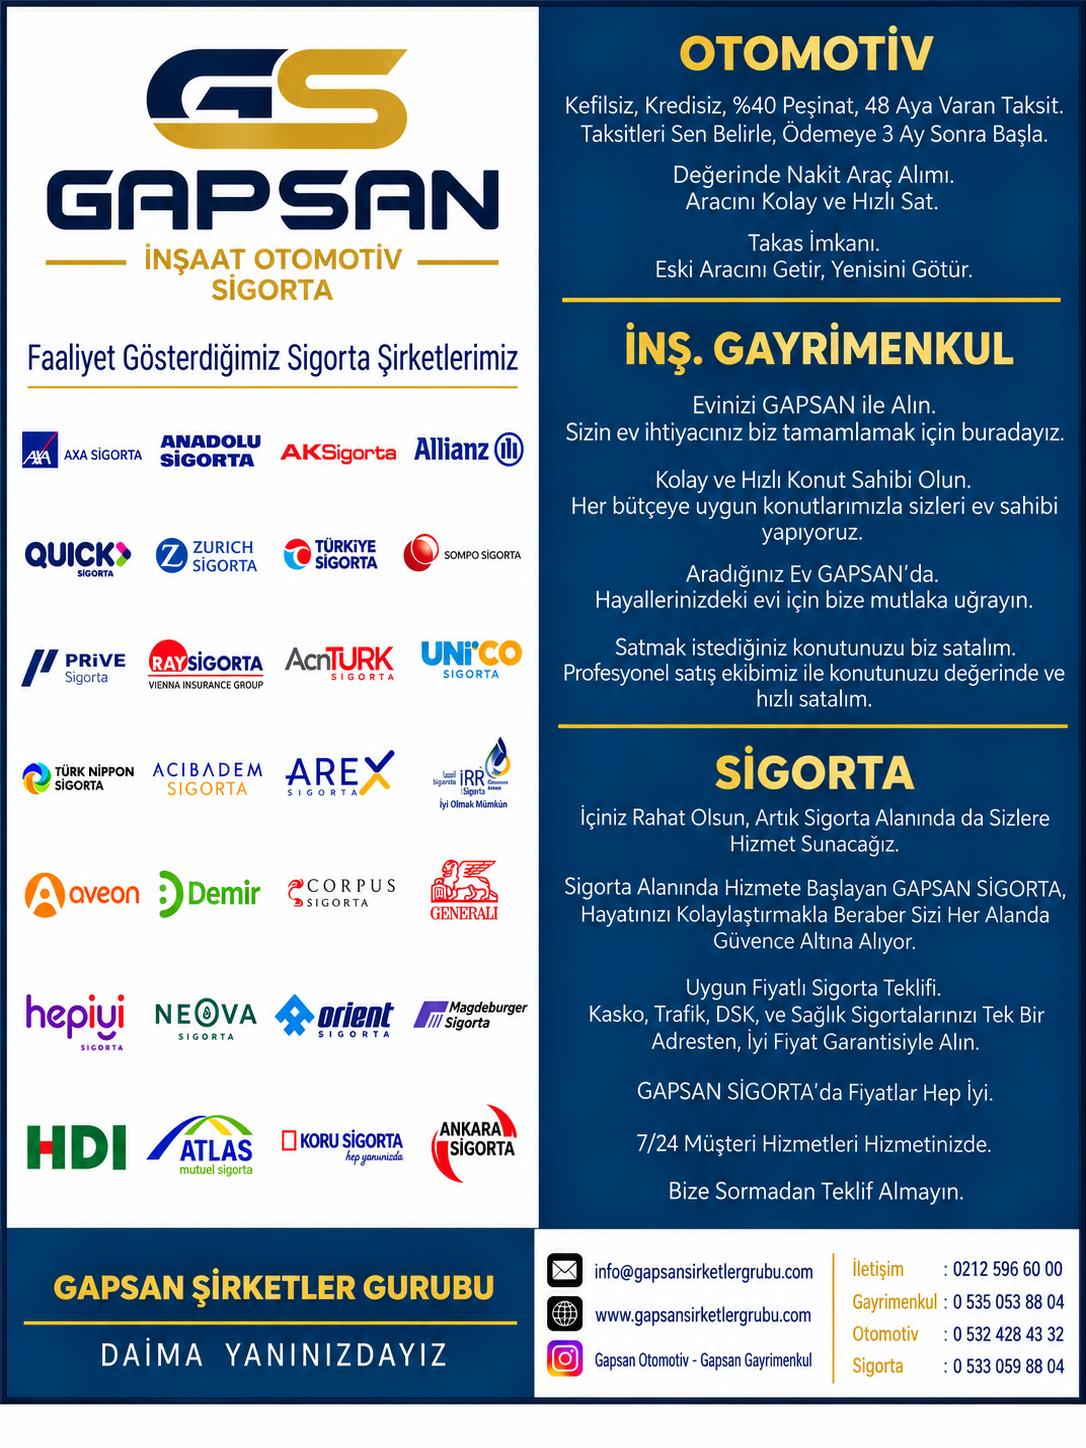
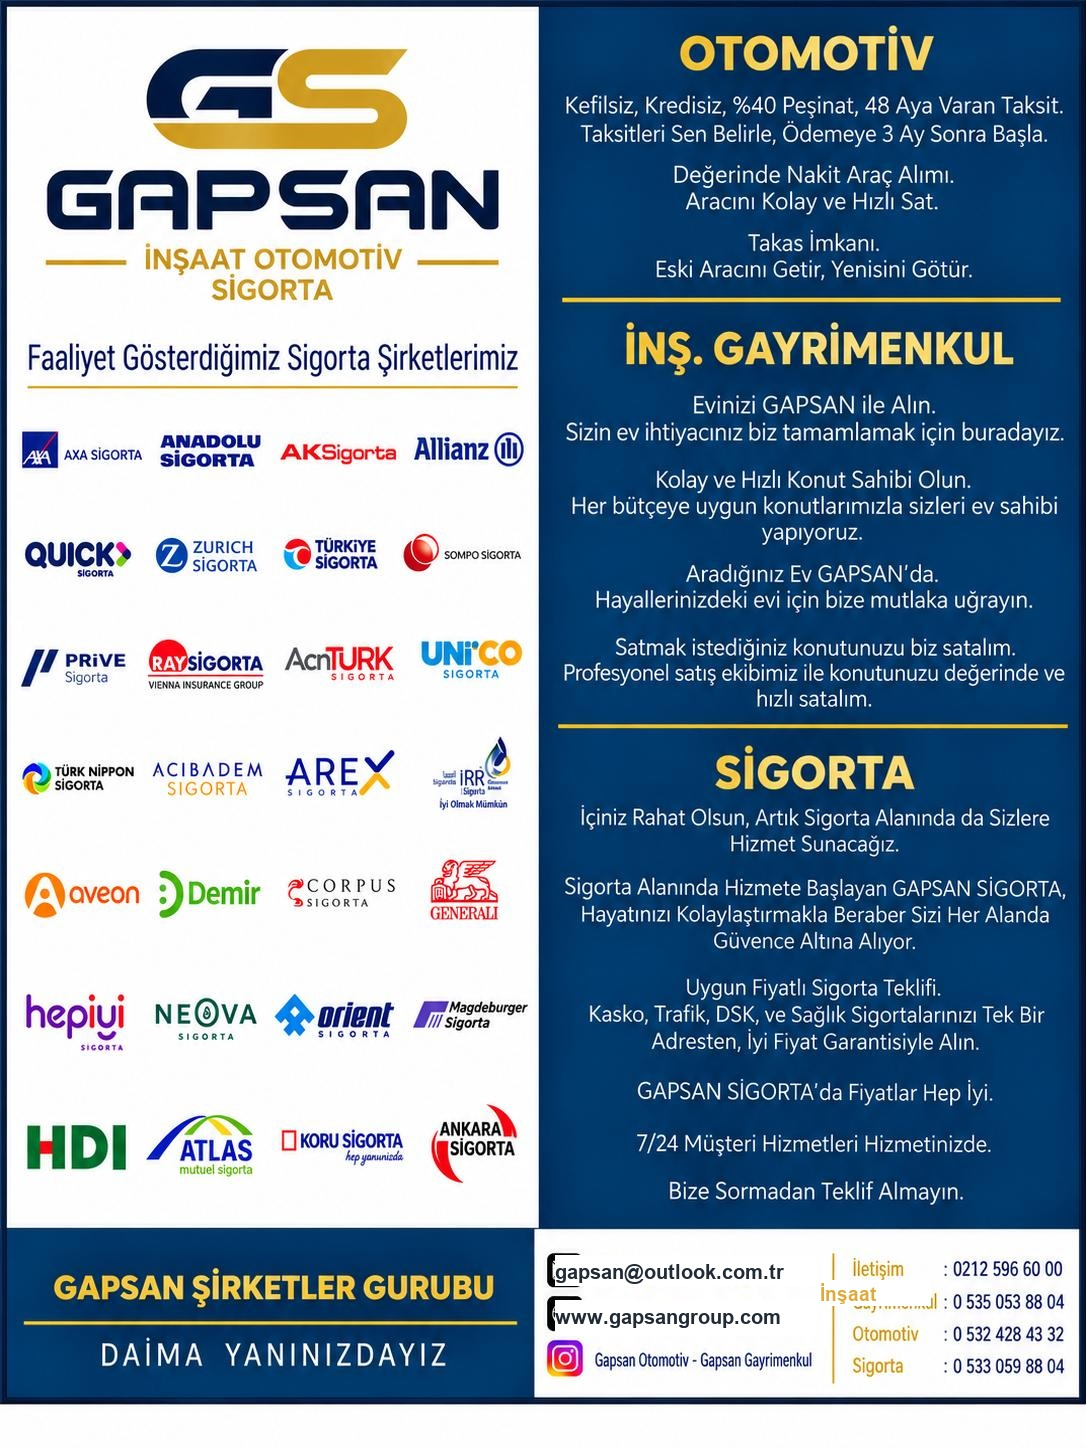
Update navigation to İnşaat, update afiş image, add /insaat route, and sync contact details

Changed region(s): [[0.4862, 0.8702, 0.8508, 0.9323]]

diff --git a/src/app/layout.tsx b/src/app/layout.tsx
@@ -24,11 +24,11 @@ const inter = Inter({
 export const metadata: Metadata = {
   metadataBase: new URL(SITE_URL),
   title: {
-    default: "GAPSAN Şirketler Grubu | Otomotiv, Gayrimenkul ve Sigorta",
+    default: "GAPSAN Şirketler Grubu | Otomotiv, İnşaat ve Sigorta",
     template: "%s | GAPSAN Şirketler Grubu",
   },
   description:
-    "Esenyurt, İstanbul merkezli GAPSAN Şirketler Grubu; otomotiv alım-satım ve takas, satılık-kiralık gayrimenkul ve sigorta taleplerinizde yanınızda.",
+    "Esenyurt, İstanbul merkezli GAPSAN Şirketler Grubu; otomotiv alım-satım ve takas, inşaat & gayrimenkul ve sigorta taleplerinizde yanınızda.",
   icons: {
     icon: "/assets/gapsan/gapsan-favicon.png",
     apple: "/assets/gapsan/gapsan-favicon.png",
@@ -40,9 +40,9 @@ export const metadata: Metadata = {
     type: "website",
     locale: "tr_TR",
     siteName: "GAPSAN Şirketler Grubu",
-    title: "GAPSAN Şirketler Grubu | Otomotiv, Gayrimenkul ve Sigorta",
+    title: "GAPSAN Şirketler Grubu | Otomotiv, İnşaat ve Sigorta",
     description:
-      "Otomotiv, gayrimenkul ve sigorta alanlarında Esenyurt, İstanbul merkezli kurumsal hizmet.",
+      "Otomotiv, inşaat ve sigorta alanlarında Esenyurt, İstanbul merkezli kurumsal hizmet.",
     images: [
       {
         url: "/assets/gapsan/gapsan-og-genel.webp",

diff --git a/src/components/Header.tsx b/src/components/Header.tsx
@@ -8,7 +8,7 @@ import { useGapsanStore } from "@/lib/gapsan-store";
 
 const NAV_LINKS = [
   { href: "/otomotiv", label: "Otomotiv" },
-  { href: "/gayrimenkul", label: "Gayrimenkul" },
+  { href: "/insaat", label: "İnşaat" },
   { href: "/sigorta", label: "Sigorta" },
   { href: "/kurumsal", label: "Kurumsal" },
   { href: "/iletisim", label: "İletişim" },
@@ -56,6 +56,7 @@ export default function Header() {
           {NAV_LINKS.map((item) => {
             const active =
               pathname === item.href ||
+              (item.href === "/insaat" && (pathname === "/gayrimenkul" || pathname.startsWith("/gayrimenkul/"))) ||
               (item.href !== "/" && pathname.startsWith(item.href + "/"));
             return (
               <Link
@@ -132,7 +133,9 @@ export default function Header() {
 
               <nav className="mt-4 flex flex-col gap-1" aria-label="Mobil menü">
                 {NAV_LINKS.map((item) => {
-                  const active = pathname === item.href;
+                  const active =
+                    pathname === item.href ||
+                    (item.href === "/insaat" && (pathname === "/gayrimenkul" || pathname.startsWith("/gayrimenkul/")));
                   return (
                     <Link
                       key={item.href}

diff --git a/src/app/iletisim/page.tsx b/src/app/iletisim/page.tsx
@@ -95,7 +95,7 @@ export default function IletisimPage() {
                     </a>
                   </p>
                   <p className="text-[#536174]">
-                    <span className="font-semibold text-[#111F35] block text-[12px] uppercase">Gayrimenkul Birimi:</span>
+                    <span className="font-semibold text-[#111F35] block text-[12px] uppercase">İnşaat Birimi:</span>
                     <a
                       href={`mailto:${CONTACT_CONFIG.gayrimenkulEmail}`}
                       className="font-bold text-[#111F35] hover:underline"
@@ -302,7 +302,7 @@ export default function IletisimPage() {
               <div className="p-4 rounded-[10px] bg-[#F7F5EF] border border-[#E0E4EA] hover:border-[#D6A948] transition-colors flex flex-col justify-between">
                 <div>
                   <p className="text-[12px] font-semibold text-[#536174]">
-                    Gayrimenkul Birimi
+                    İnşaat &amp; Gayrimenkul
                   </p>
                   <a
                     href={CONTACT_CONFIG.units.gayrimenkul.phoneTel}

diff --git a/src/lib/gapsan-data.ts b/src/lib/gapsan-data.ts
@@ -333,7 +333,7 @@ export const INITIAL_HERO_SLIDES: HeroSlideConfig[] = [
     id: "slide-1",
     image: "/assets/gapsan/gapsan-otomotiv-konsept.webp",
     alt: "Gapşan Otomotiv galeri konsept görseli",
-    heading: "Otomotiv, gayrimenkul ve sigorta",
+    heading: "Otomotiv, inşaat ve sigorta",
     location: "Esenyurt, İstanbul • 2010'dan Bu Yana Güvenle",
     ctaLabel: "Talep Oluştur",
     ctaHref: "/#talep",
@@ -344,10 +344,10 @@ export const INITIAL_HERO_SLIDES: HeroSlideConfig[] = [
   {
     id: "slide-2",
     image: "/assets/gapsan/gapsan-gayrimenkul-konsept.webp",
-    alt: "Gapşan Gayrimenkul apartman cephesi konsept görseli",
-    heading: "Satılık ve kiralık gayrimenkul",
-    ctaLabel: "Gayrimenkulü İncele",
-    ctaHref: "/gayrimenkul",
+    alt: "Gapşan İnşaat konsept görseli",
+    heading: "İnşaat ve satılık-kiralık gayrimenkul",
+    ctaLabel: "İnşaatı İncele",
+    ctaHref: "/insaat",
     desktopFocus: "65% 50%",
     mobileFocus: "68% 62%",
     conceptLabel: "Konsept görsel",

diff --git a/src/components/HomeSections.tsx b/src/components/HomeSections.tsx
@@ -29,10 +29,10 @@ export function ActivityAreasSection() {
       mobileFocus: "50% 56%",
     },
     {
-      title: "Gayrimenkul",
-      href: "/gayrimenkul",
+      title: "İnşaat",
+      href: "/insaat",
       image: "/assets/gapsan/gapsan-gayrimenkul-konsept.webp",
-      alt: "Gapşan Gayrimenkul apartman cephesi konsept görseli",
+      alt: "Gapşan İnşaat & Gayrimenkul konsept görseli",
       mobileFocus: "68% 62%",
     },
     {
@@ -600,7 +600,7 @@ export function ReachGapsanSection() {
                 href={contact.units.gayrimenkul.phoneTel}
                 className="inline-flex items-center gap-1.5 hover:text-[#D6A948]"
               >
-                Gayrimenkul: {contact.units.gayrimenkul.phoneDisplay}
+                İnşaat: {contact.units.gayrimenkul.phoneDisplay}
               </a>
               <a
                 href={contact.units.sigorta.phoneTel}

diff --git a/src/components/Footer.tsx b/src/components/Footer.tsx
@@ -45,8 +45,8 @@ export default function Footer() {
             <span className="text-[#E0E4EA] hidden sm:inline" aria-hidden="true">
               |
             </span>
-            <Link href="/gayrimenkul" className="hover:text-[#111F35] py-1">
-              Gayrimenkul
+            <Link href="/insaat" className="hover:text-[#111F35] py-1">
+              İnşaat
             </Link>
             <span className="text-[#E0E4EA] hidden sm:inline" aria-hidden="true">
               |
@@ -106,7 +106,7 @@ export default function Footer() {
 
             <div className="flex items-center gap-2">
               <span className="text-[12px] font-bold text-[#111F35] uppercase">
-                Gayrimenkul:
+                İnşaat:
               </span>
               <a
                 href={contact.socialMedia.instagramGayrimenkul}

diff --git a/src/app/insaat/page.tsx b/src/app/insaat/page.tsx
@@ -1,0 +1,19 @@
+import React from "react";
+import type { Metadata } from "next";
+import GayrimenkulClient from "@/components/GayrimenkulClient";
+
+export const metadata: Metadata = {
+  title: "İnşaat & Gayrimenkul | Projeler, Satılık ve Kiralık Konut",
+  description:
+    "GAPSAN İnşaat ve Gayrimenkul ile konut projeleri, geliştirme, satılık ve kiralık gayrimenkul seçeneklerini inceleyin.",
+  alternates: {
+    canonical: "/insaat",
+  },
+  openGraph: {
+    images: ["/assets/gapsan/gapsan-og-gayrimenkul.webp"],
+  },
+};
+
+export default function InsaatPage() {
+  return <GayrimenkulClient />;
+}

diff --git a/src/components/RequestBuilder.tsx b/src/components/RequestBuilder.tsx
@@ -427,7 +427,7 @@ export default function RequestBuilder({
                   }`}
                 >
                   <Building2 className="w-3.5 h-3.5 sm:w-4 sm:h-4 shrink-0" aria-hidden="true" />
-                  <span>Gayrimenkul</span>
+                  <span>İnşaat</span>
                 </button>
                 <button
                   type="button"
